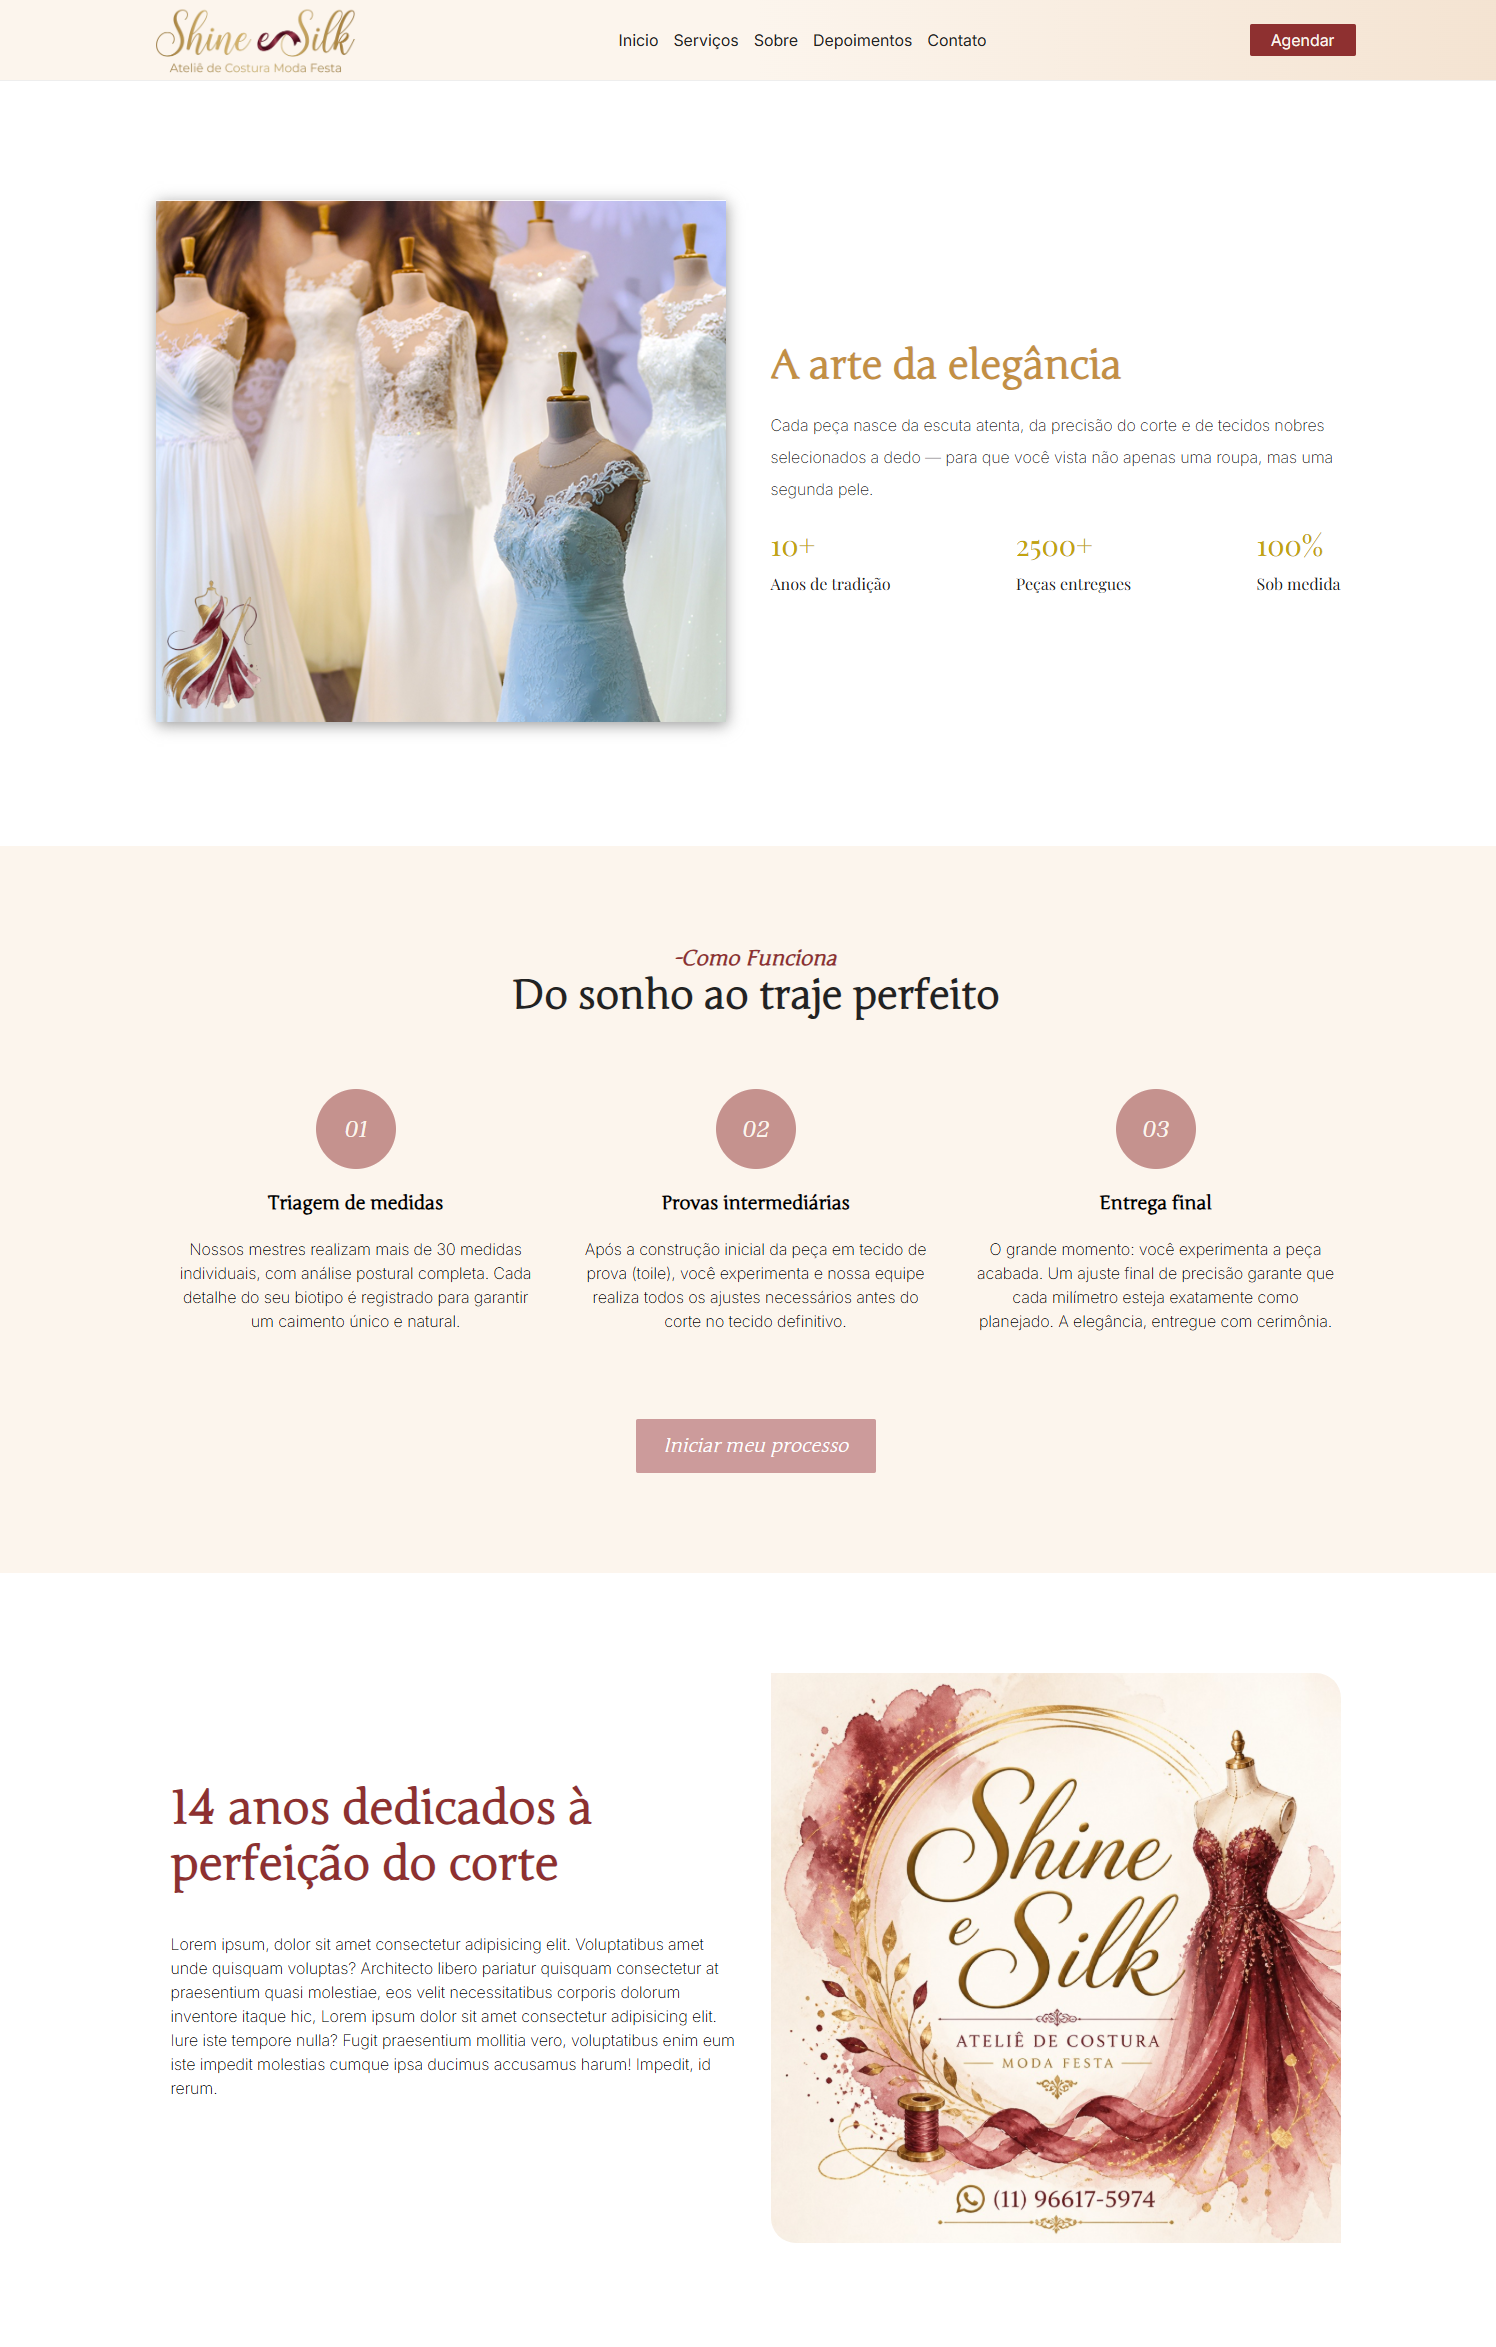
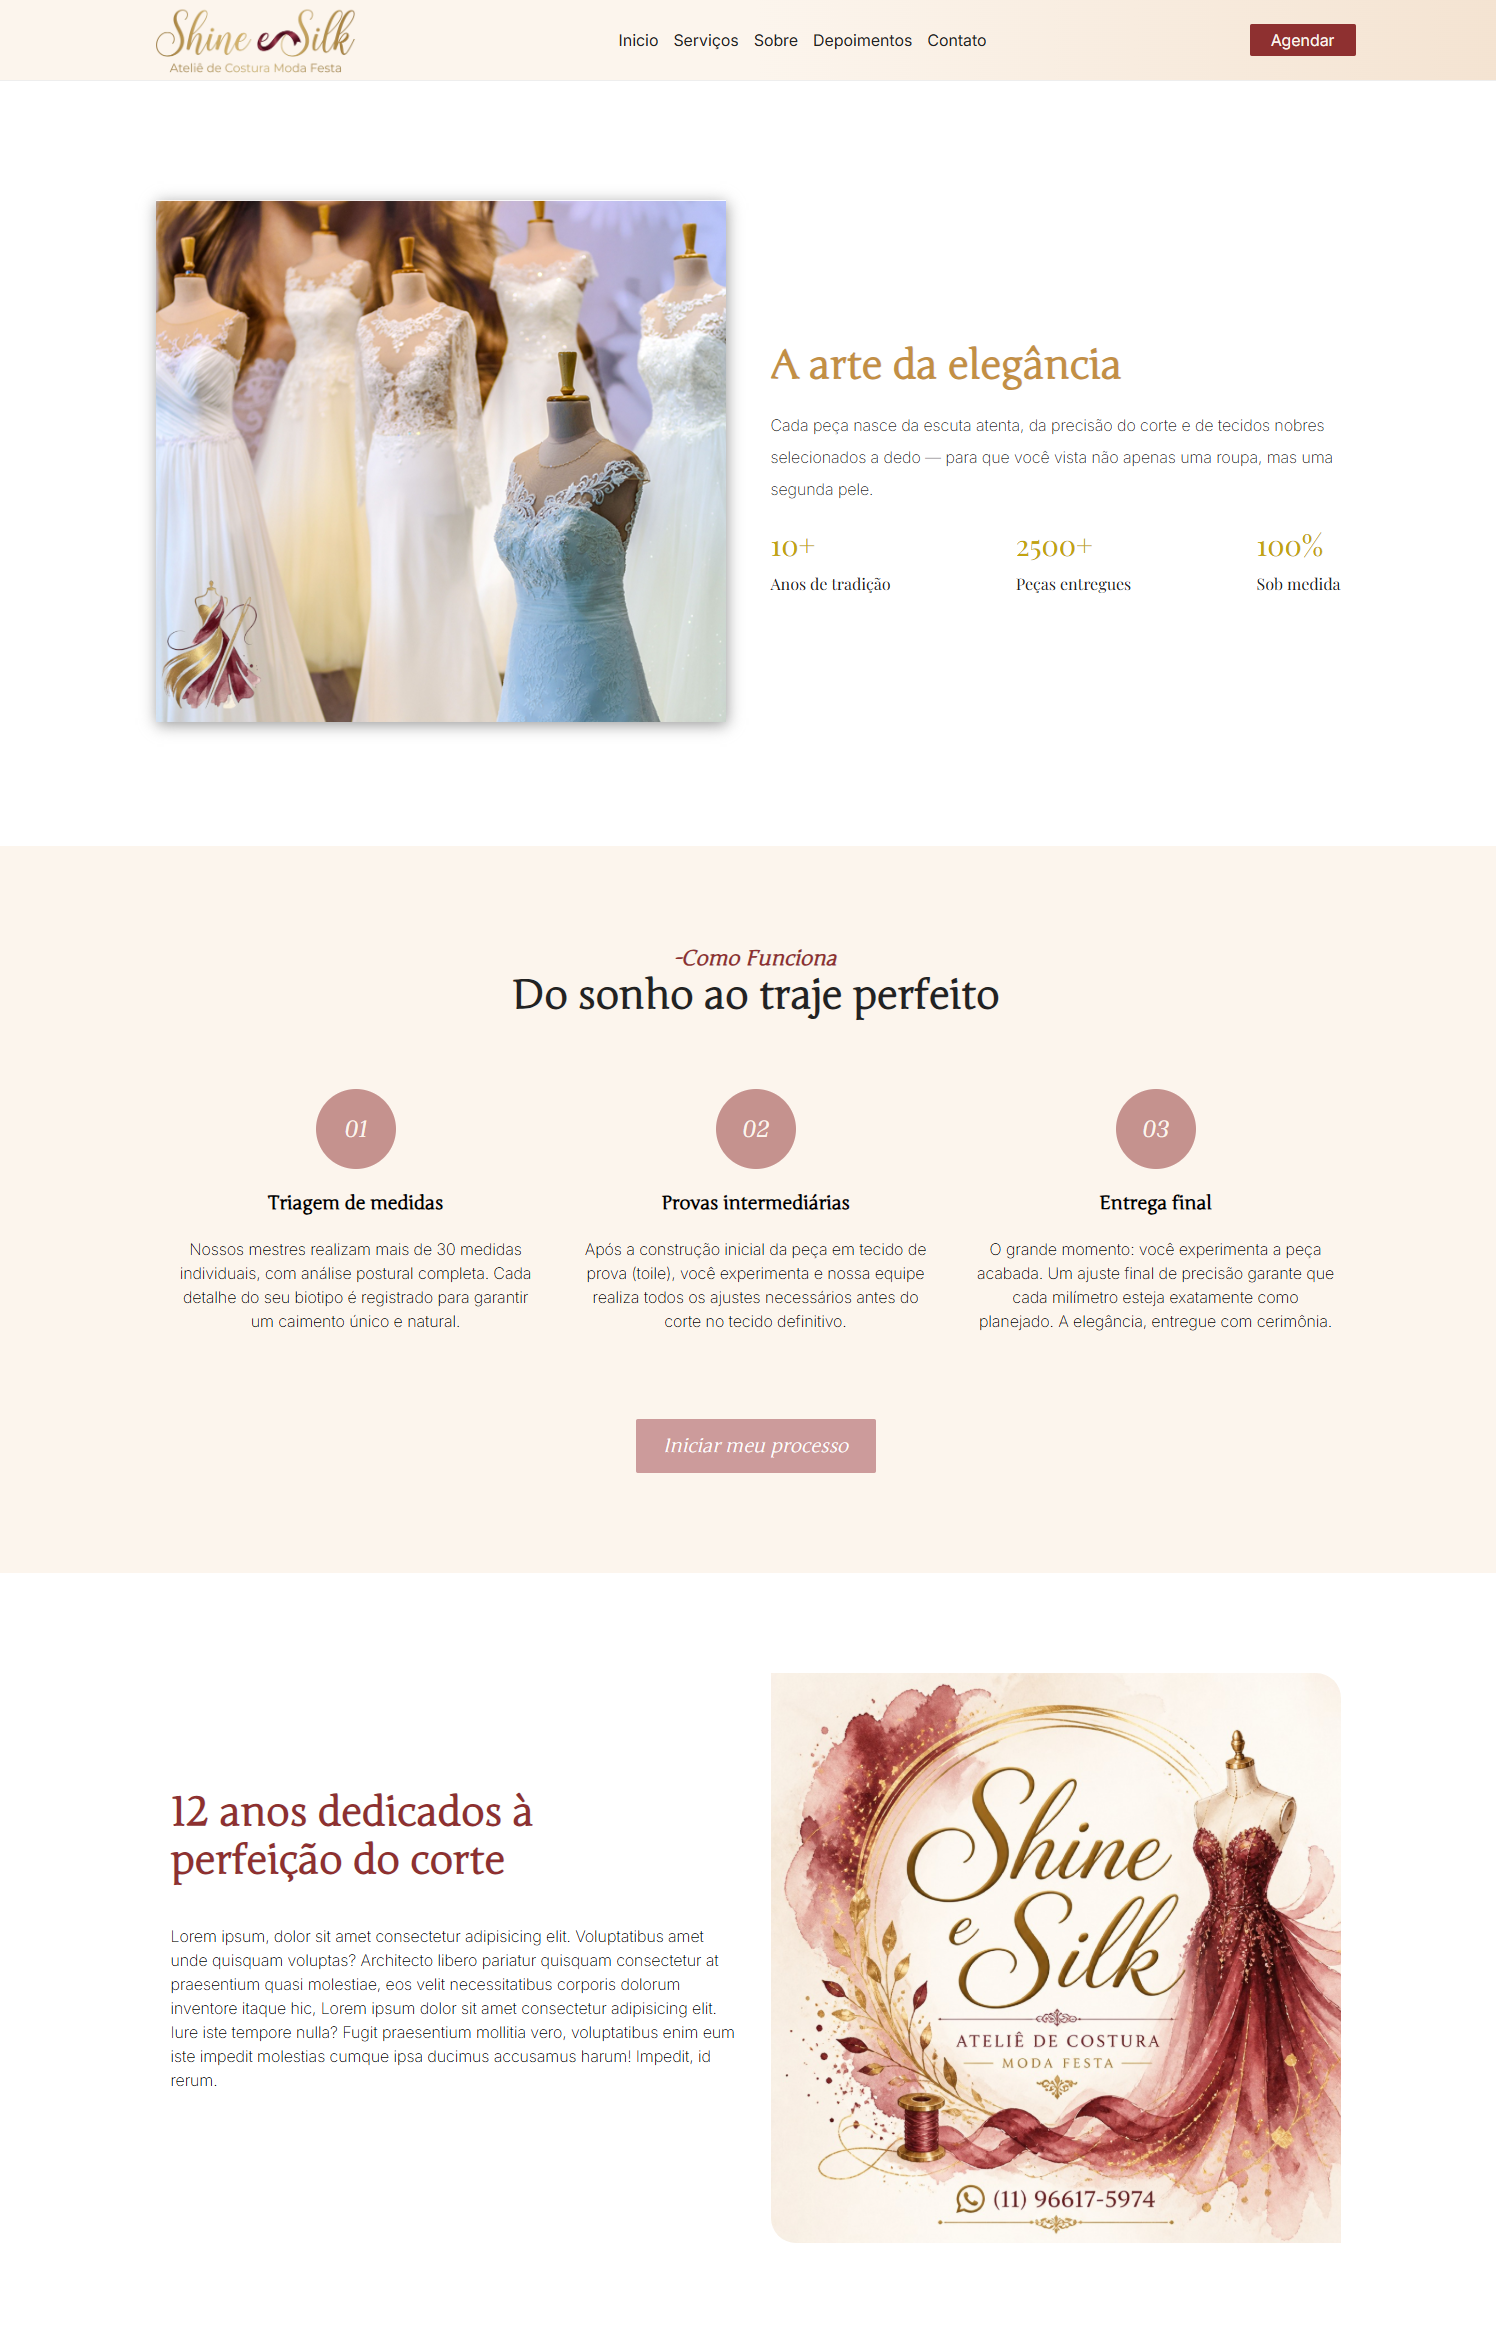
ajustes no texto sobre.

Changed region(s): [[0.0922, 0.7465, 0.492, 0.902]]

diff --git a/src/css/estilo.css b/src/css/estilo.css
@@ -84,12 +84,19 @@ header {
 }
 
 .menu a:hover {
-    color: var(--nova-cor-texto);
+
+    box-shadow: 2px 3px 15px #ddd;
+    border-radius: 5px;
+    transition: all .5s;
+    /* background-color: var(--cor-secundaria); */
+    /* border-bottom: 3px solid var(--nova-cor-terciaria); */
+
 }
 
 .menu a {
     text-decoration: none;
     color: var(--cor-texto-alternativa);
+    padding: 10px;
 }
 
 #btn_agendar_topo {
@@ -282,35 +289,35 @@ header {
 }
 
 
-#sobre{
+#sobre {
     padding: 100px 15px;
 }
 
-.container_sobre{
+.container_sobre {
     max-width: 1200px;
     margin: auto;
     display: flex;
     align-items: center;
 }
 
-.itens_sobre{
+.itens_sobre {
     text-align: left;
     width: 50%;
     padding: 0px 15px;
 }
 
-.itens_sobre img{
+.itens_sobre img {
     width: 100%;
     border-radius: 0px 25px 0px 25px;
 }
 
-.titulo_sobre{
+.titulo_sobre {
     font-size: 2.9rem;
-    color: var(--nova-cor-terciaria);   
+    color: var(--nova-cor-terciaria);
 
 }
 
-.texto_sobre{
+.texto_sobre {
     margin: 40px 0px;
     line-height: 1.5;
     font-weight: 200;
@@ -365,12 +372,12 @@ header {
 
     }
 
-    .titulo_sobre{
+    .titulo_sobre {
         width: 85%;
         font-size: 1.5rem;
-    }    
+    }
 
-    .texto_sobre{
+    .texto_sobre {
         font-size: .7rem;
     }
 }
@@ -431,15 +438,15 @@ header {
         font-size: 1.5em;
     }
 
-    .titulo_sobre{
+    .titulo_sobre {
         font-size: 2.5rem;
-    }    
+    }
 
-    .texto_sobre{
+    .texto_sobre {
         font-size: 1rem;
     }
 
-   
+
 
 
 
@@ -453,7 +460,7 @@ header {
 
 @media(max-width:767px) {
 
-    
+
     #container_header {
         width: 100%;
         justify-content: space-between;
@@ -519,7 +526,7 @@ header {
     }
 
     #servicos {
-        margin-top:100px;
+        margin-top: 100px;
     }
 
     .titulo_inicial_servicos {
@@ -543,33 +550,33 @@ header {
         gap: 0;
     }
 
-    #sobre{
+    #sobre {
         margin: 0;
-        padding:50px 20px;
+        padding: 50px 20px;
     }
 
-    .container_sobre{
-        width:100%;
+    .container_sobre {
+        width: 100%;
         display: flex;
         flex-direction: column;
     }
 
-    .itens_sobre{
+    .itens_sobre {
         width: 100%;
         padding: 0px;
     }
 
-    .titulo_sobre{
+    .titulo_sobre {
         width: 95%;
         font-size: 2rem;
         margin: auto;
     }
 
-    .texto_sobre{
+    .texto_sobre {
         padding: 0;
     }
 
-    .itens_sobre img{
+    .itens_sobre img {
         width: 100%;
 
     }

diff --git a/index.html b/index.html
@@ -113,8 +113,9 @@
         <div class="container_sobre">
 
             <div class="itens_sobre">
-                <h2 class="titulo_sobre">14 anos dedicados à perfeição do corte</h2>
-                <p class="texto_sobre">Lorem ipsum, dolor sit amet consectetur adipisicing elit. Voluptatibus amet unde quisquam voluptas? Architecto libero pariatur quisquam consectetur at praesentium quasi molestiae, eos velit necessitatibus corporis dolorum inventore itaque hic, Lorem ipsum dolor sit amet consectetur adipisicing elit. Iure iste tempore nulla? Fugit praesentium mollitia vero, voluptatibus enim eum iste impedit molestias cumque ipsa ducimus accusamus harum! Impedit, id rerum.</p>
+                <h2 class="titulo_sobre">12 anos dedicados à perfeição do corte</h2>
+                <p class="texto_sobre">Fundado em 2014 no coração de São Paulo, a Atelier nasceu do sonho de uma jovem que viu na alfaiataria muito mais do que uma profissão — uma forma de arte. Ao longo de uma década, cada ponto dado à mão se transformou em herança e cada corte, em identidade.
+                    Hoje, com uma vasta experiência que atende debutantes e noivas que compreendem que a verdadeira elegância começa no ajuste perfeito.</p>
             </div>
 
             <div class="itens_sobre">
